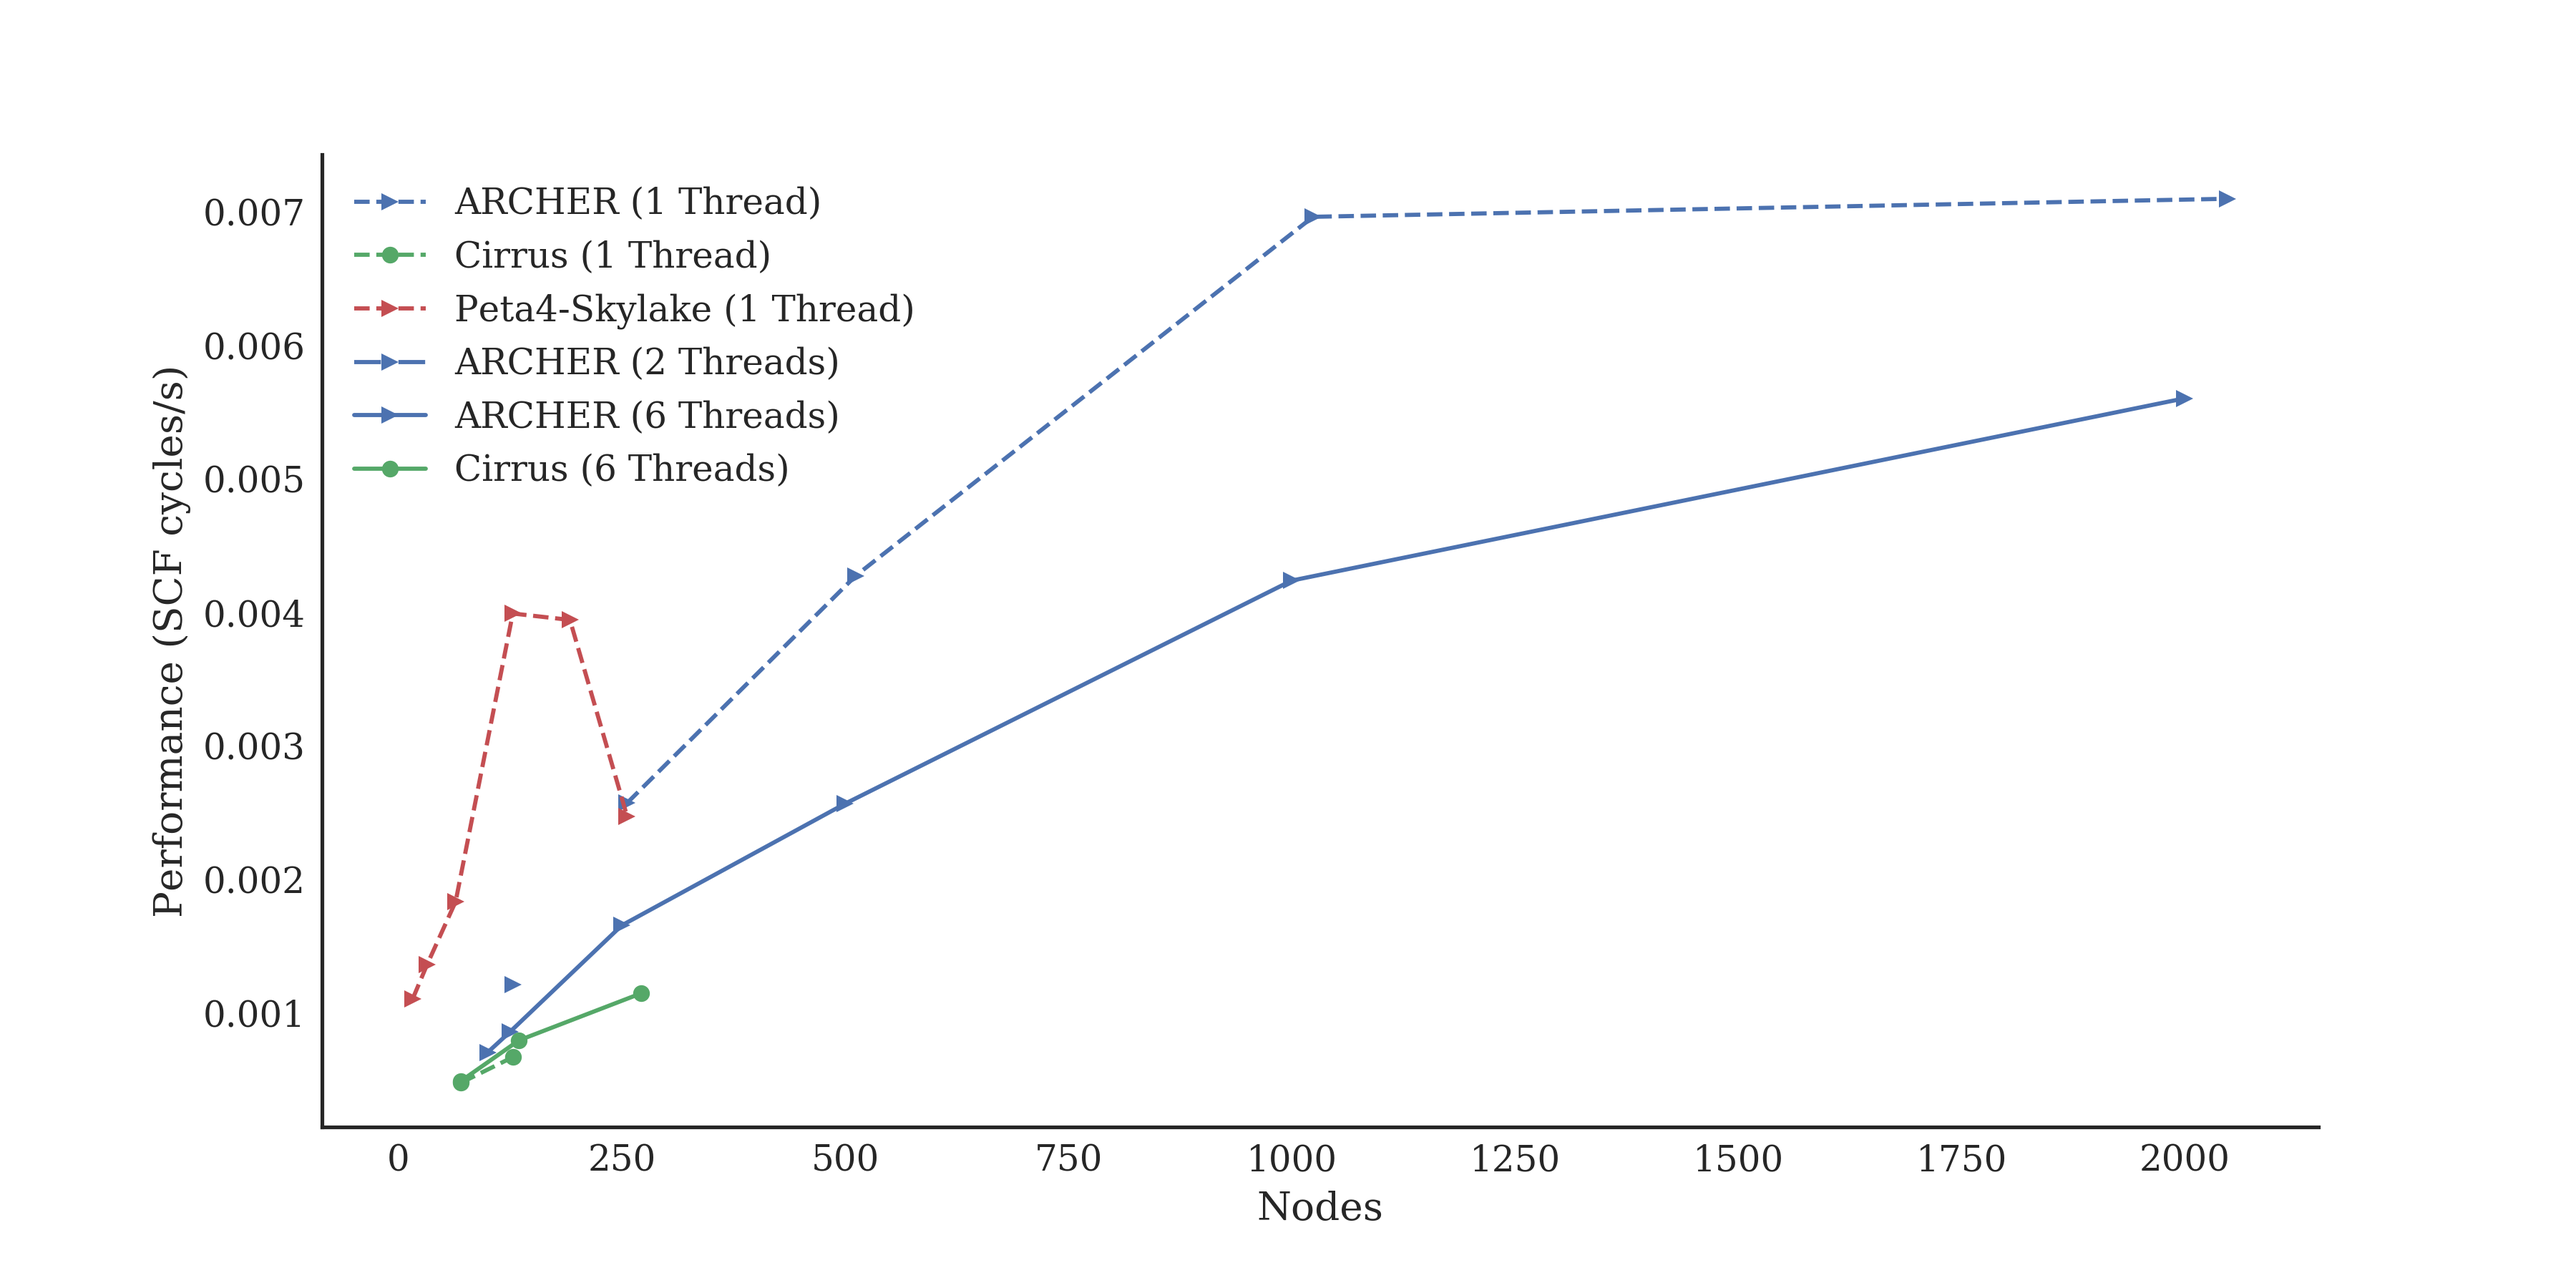
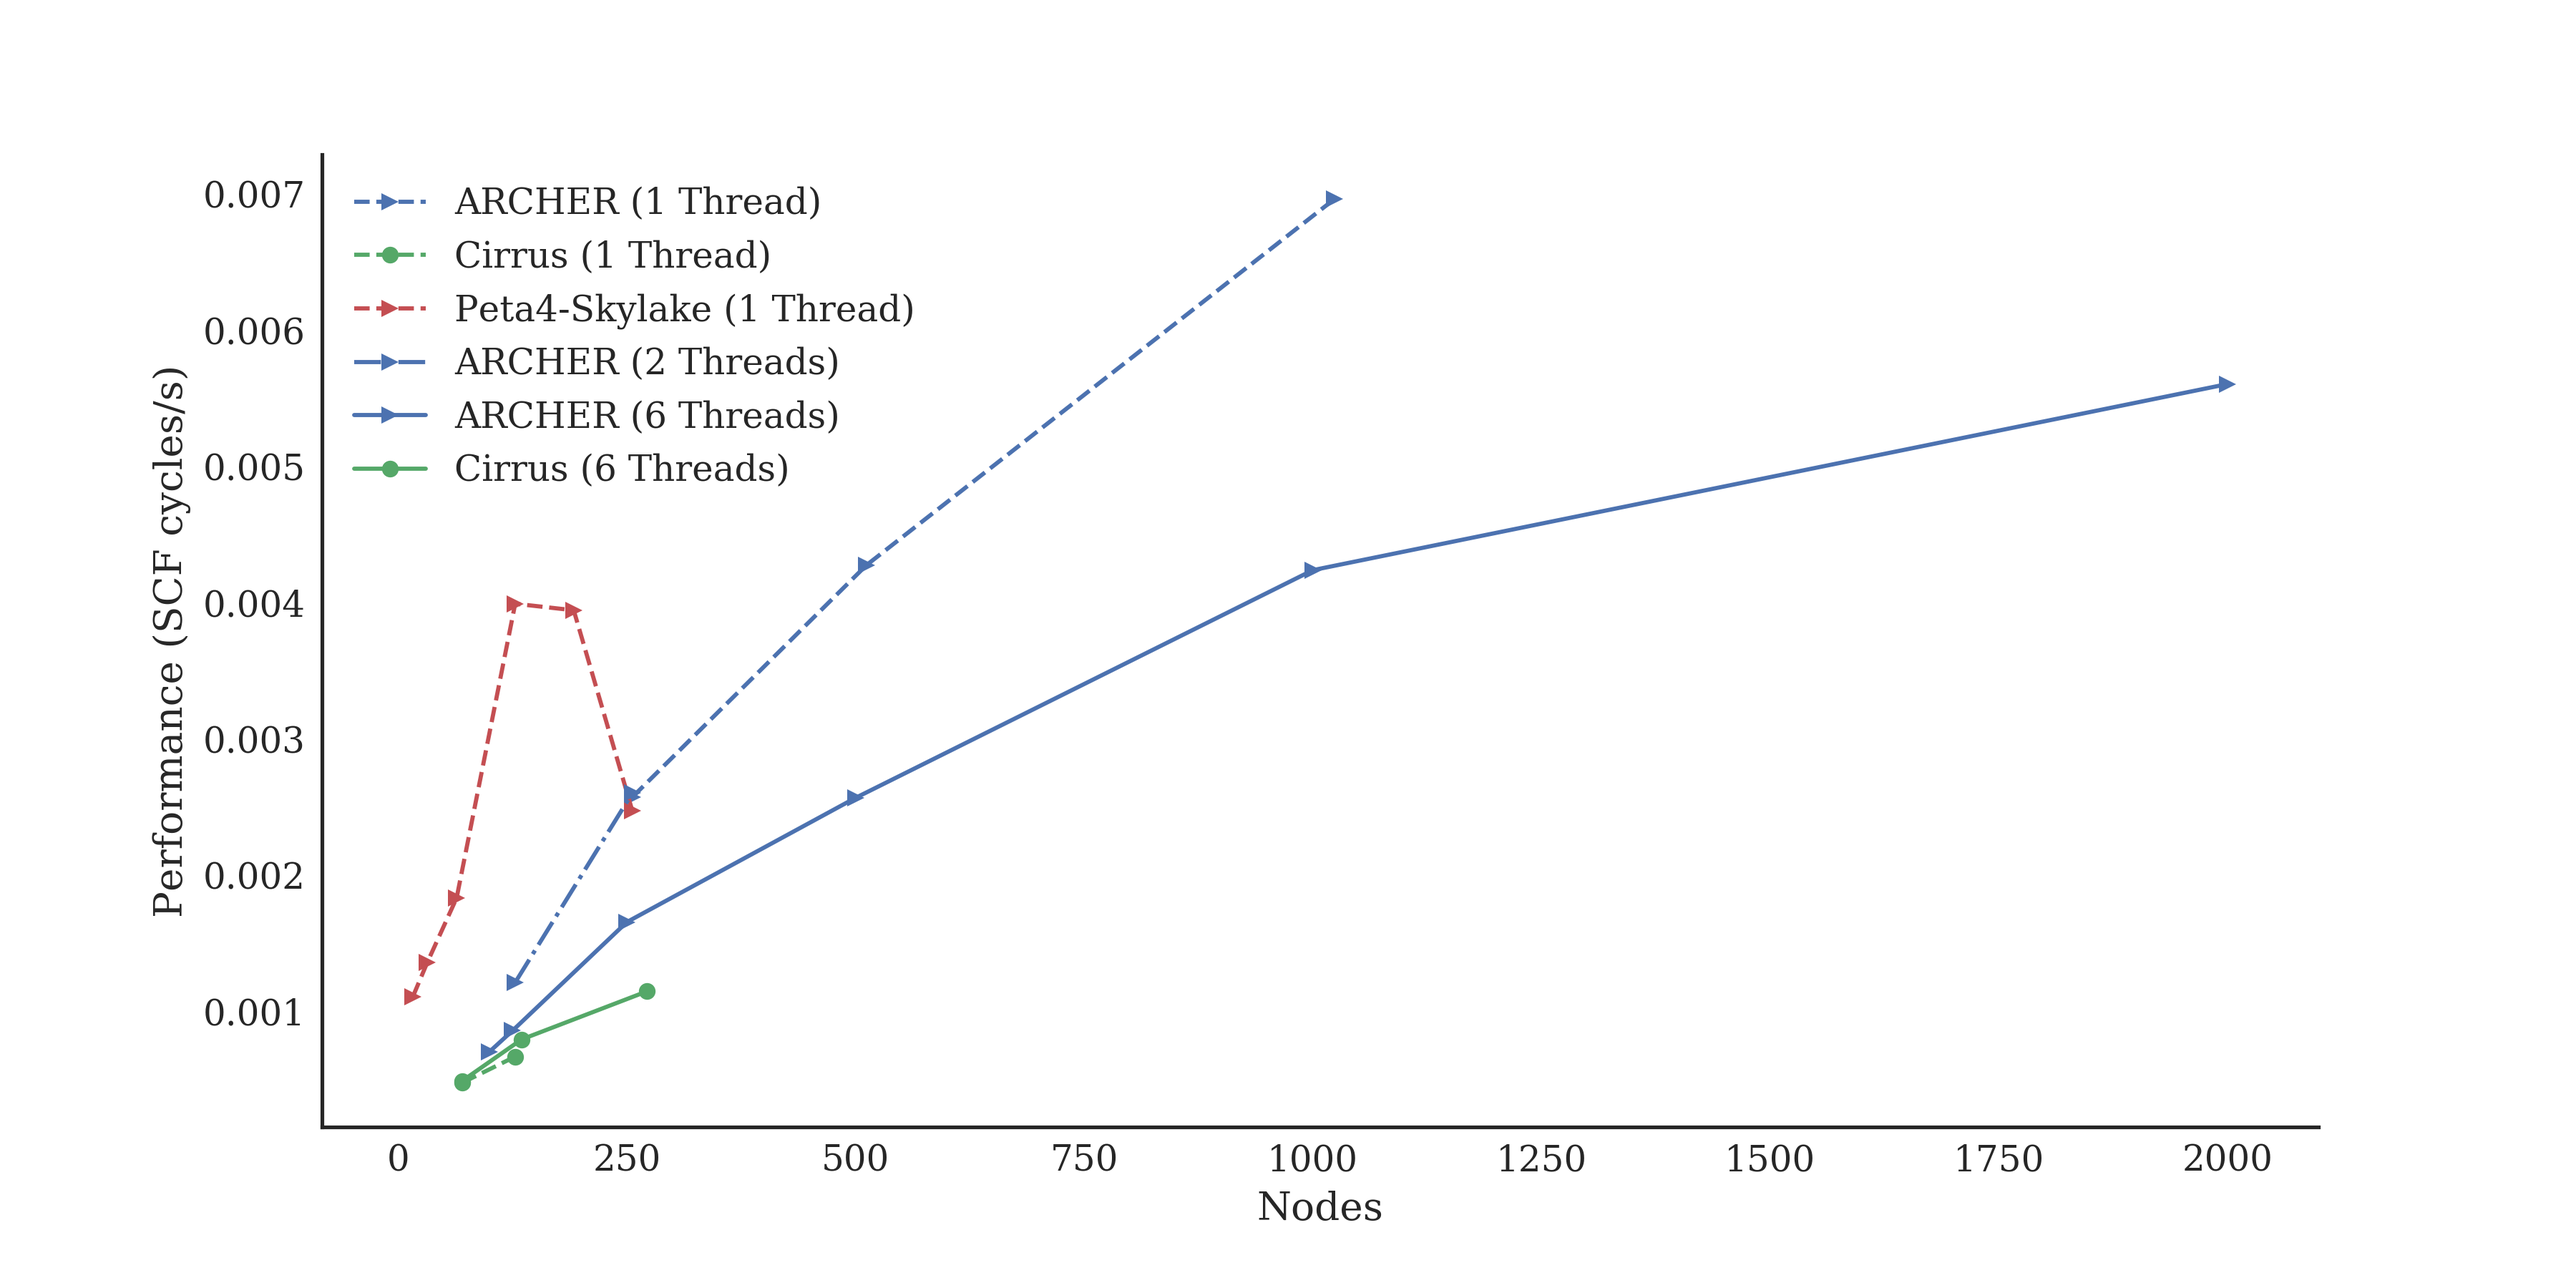
Added in ARCHER 2 thread data

diff --git a/reports/initial_comp/index.md b/reports/initial_comp/index.md
@@ -152,7 +152,7 @@ We compare the performance of the ARCHER, Cirrus and Peta4-Skylake in [Figure 2]
 
 The Peta4-Skylake system shows the best performance for the benchmark up to 128 nodes (even showing super-linear scaling) with ARCHER giving the best peformance at 256 nodes and above; however, 512 nodes of ARCHER are required to improve on the best performance seen on the Peta4-Skylake system (at 128 nodes). Cirrus gives the worst performance for this benchmark at all node counts.
 
-On ARCHER, best performance is always seen when using the minimum number of threads per MPI process. Depending on the amount memory available per node, the minimum number of threads that can be used on different node counts varies. For example, on ARCHER, a single thread can only be used on 256 nodes and above due to each node only having 64 GB of memory available. In contrast, on Peta4-Skylake, a single thread can be used on all node counts as the nodes have 192 GB memory. On Cirrus, reducing the thread count per node does not provide any performance improvement.
+On ARCHER, best performance is seen when using the low numbers of threads per MPI process. Depending on the amount memory available per node, the minimum number of threads that can be used on different node counts varies. For example, on ARCHER, at least 256 nodes are required to be able to use a single thread due to each node only having 64 GB of memory available. In contrast, on Peta4-Skylake, a single thread can be used on all node counts as the nodes have 192 GB memory. The relationship between performance and thread count seems to be complex. On ARCHER, 6 threads per MPI process gives much poorer results than 1 or 2 threads per MPI process but using 2 threads per process is marginally better than using a single thread. On Cirrus, reducing the thread count per node does not provide any performance improvement.
 
 The differences in performance between different systems for this benchmark are complex to interpret and require further investigation to pick out the root causes of the differences. As for the smalller Al Slab benchmark results above it would seem that the more modern technology in the Peta4-Skylake system leads to the performance improvements over the older technology on ARCHER. However, the poor Cirrus results do not tie in with this explanation and it is currently unclear why not (as the results for other benchmarks are in line with expectations based on technology differences). The super-linear scaling on the Peta4-Skylake system is also unexplained at the moment. We plan additional profiling to try and understand where these differences come from.
 
